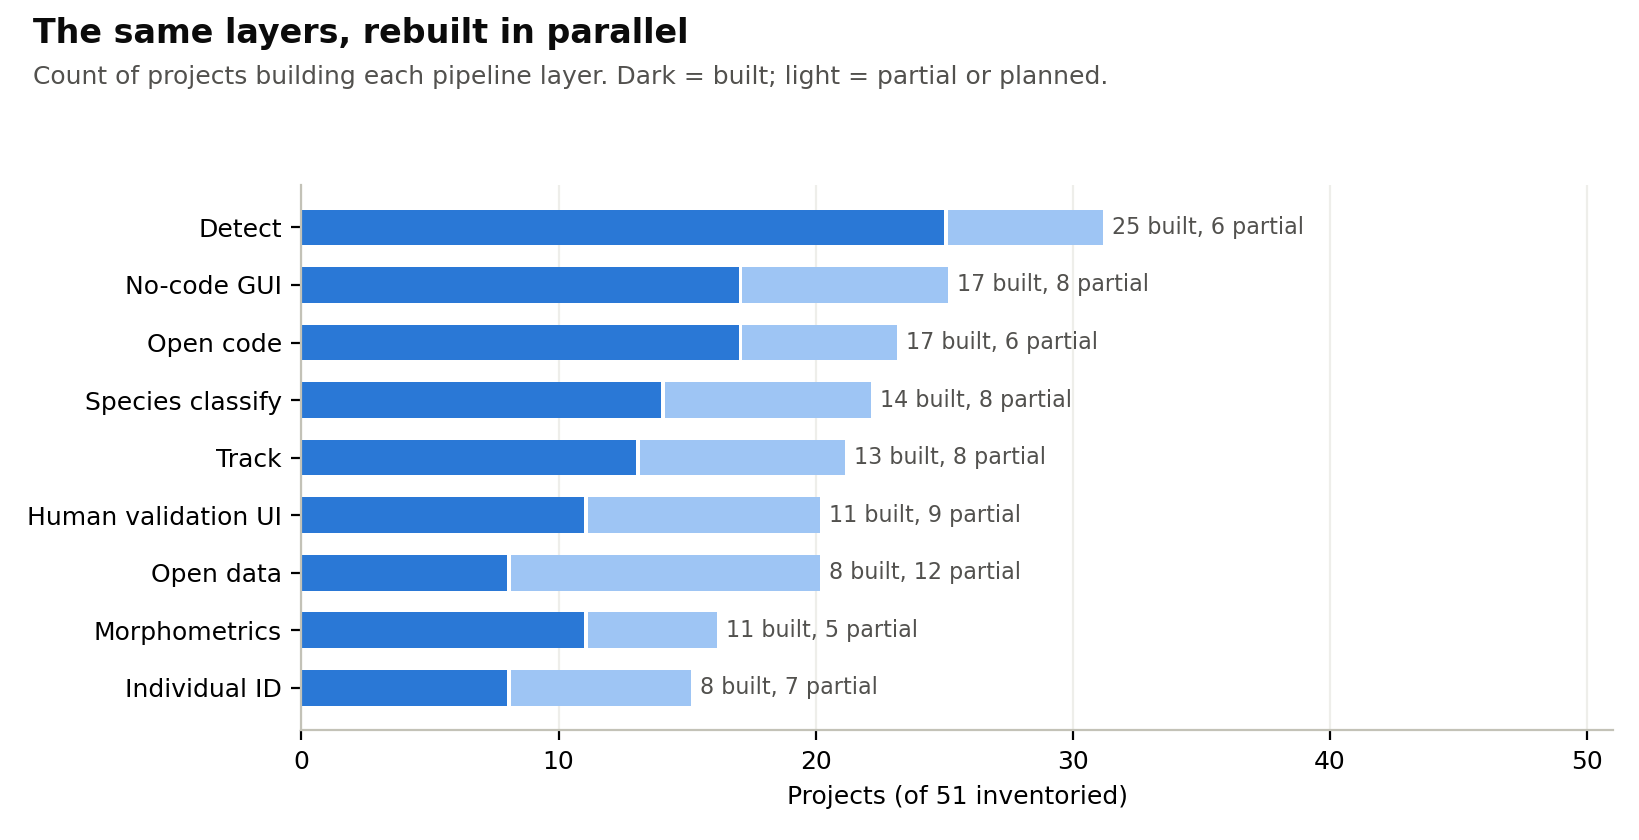
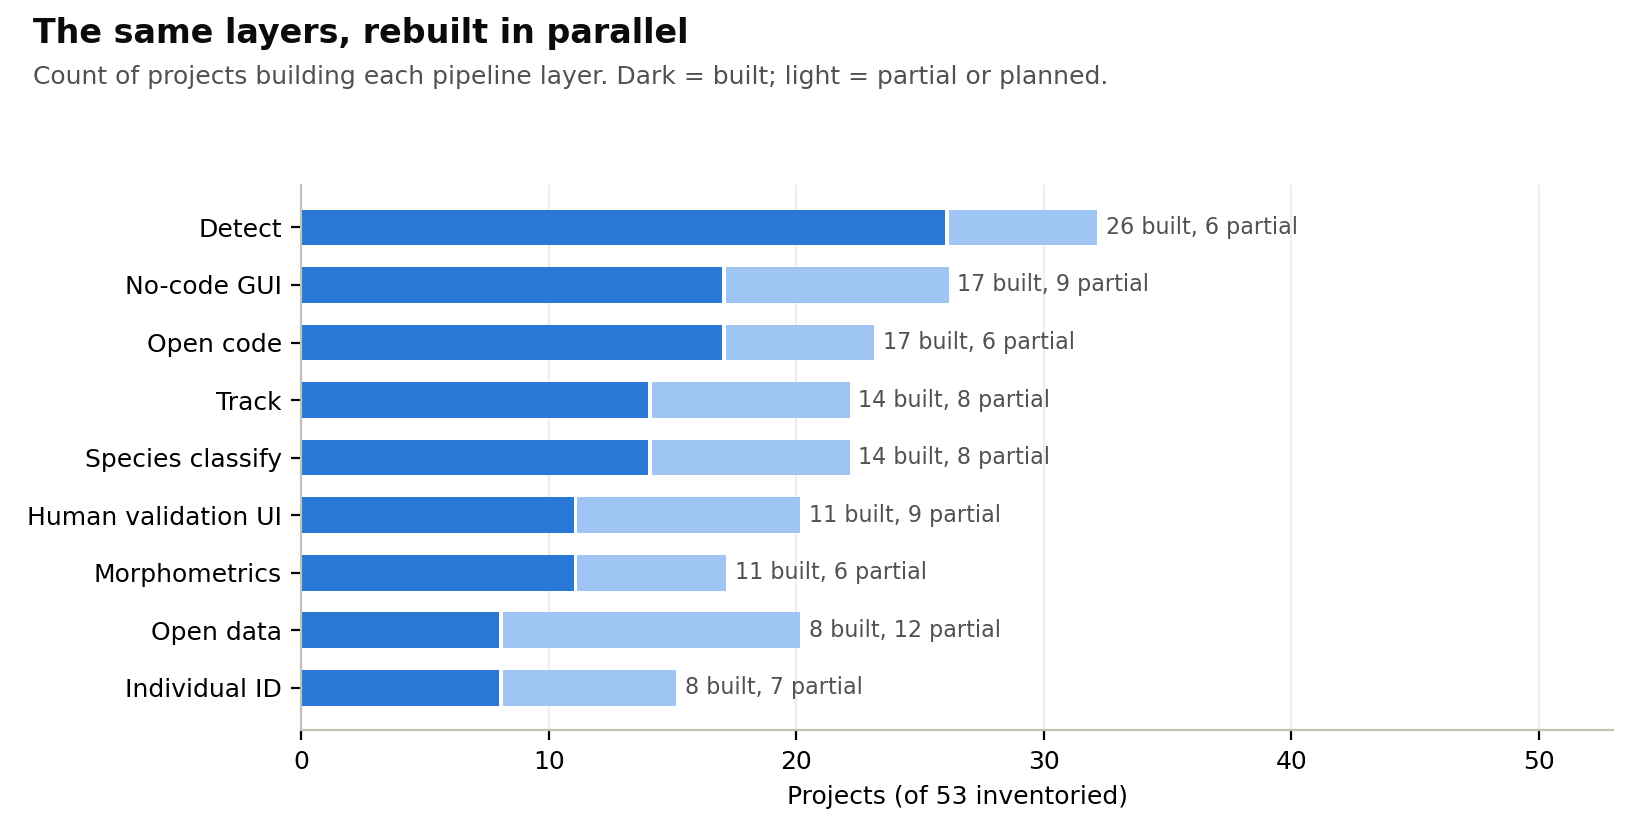
Poster pass: rows 52-53 (Okeanos hammerhead drone YOLO/TRex, Sotamar blue shark photogrammetry), row 18 and 51 updated

diff --git a/inventory.md b/inventory.md
@@ -1,6 +1,6 @@
-# Inventory: 51 shark and marine-megafauna computer-vision projects
+# Inventory: 53 shark and marine-megafauna computer-vision projects
 
-Compiled 1 and 6 October 2026. Columns kept to what is public; contacts are omitted (use the project pages). Rows 44 to 51 are from EEA 2026 abstracts only.
+Compiled 1 and 6 October 2026. Columns kept to what is public; contacts are omitted (use the project pages). Rows 44 to 53 are from EEA 2026 talk and poster abstracts only.
 
 | # | Project | Category | People and institution | Species and setting | Model family | Data openness | Licence | Status and last activity | Public evidence |
 |---|---|---|---|---|---|---|---|---|---|
@@ -21,7 +21,7 @@ Compiled 1 and 6 October 2026. Columns kept to what is public; contacts are omit
 | 15 | Photo-ID software comparison for eagle rays (SI2026 talk) | Photo-ID / re-identification | Isabel Evans, Nicole Esteban (Swansea); Kim Bassos-Hull (Mote); Jason Holmberg (Wild Me / Conservation X Labs) et al. | Aetobatus narinari, Mexican Caribbean; I3S Spot vs MantaMatcher Hotspotter vs MiewID | Evaluation study: I3S precision 91.9%, Hotspotter 67.6%, MiewID 59.5%; MantaMatcher 2x faster | Not stated | n/a | SI2026 talk | SI2026 abstract |
 | 16 | Monterey Bay White Shark Project CV (Stanford Hopkins) | Photo-ID / re-identification | Samantha Andrzejaczek, Alexandra DiGiacomo, Barbara Block (Stanford); Kurmann, Getoor (UCSC); Monterey Bay White Shark Project partners | White sharks; drone morphometrics; dorsal-fin re-ID over >1,000 individuals; camera traps at pinniped colonies | U-Net (ResNet-34) segmentation for body measurements (sharkbody_seg); ViT embedding retrieval for re-ID (Kurmann et al., ICCV 2025 CV4E workshop) | Drone morphometrics dataset on Stanford Data Repository (doi 10.25740/tr054mz8990); code on GitHub | Repo licence unverified | Active; PLOS ONE 2026; NEPSS drone workshop Mar 2026; SI2026 talk | github alexandradigiacomo/sharkbody_seg; linqs.org Kurmann PDF; SI2026 abstract |
 | 17 | Captive sand tiger shark AI tracking, Kuwait (SI2026 talk) | Aquarium, deep sea, beach safety, other | Amani Alzaidan (Kuwait University); The Scientific Center Kuwait; Nuwat (Bahrain) | Carcharias taurus in aquarium; 'Fathom Octopus' camera + 'SharkTrack' AI motion tracking; Mar to Jun 2025 | Unknown; whether 'SharkTrack' is Varini's tool is unverified | Not stated | n/a | SI2026 talk | SI2026 abstract; web pass found neither product |
-| 18 | Deep-sea BRUVs, Azores (SI2026 talk) | Aquarium, deep sea, beach safety, other | Diana Catarino, Laurence Fauconnet et al., Okeanos, University of the Azores | 150+ deep-sea BRUV videos, 500 h, 18 deep-water shark species, 3 rays, 2 chimaeras; 'testing AI tools' is stated next step | None yet | Not stated | n/a | Active; SI2026 talk | SI2026 abstract; saveourseas.com profile |
+| 18 | Deep-sea BRUVs, Azores (SI2026 talk) | Aquarium, deep sea, beach safety, other | Diana Catarino, Laurence Fauconnet et al., Okeanos, University of the Azores | 150+ deep-sea BRUV videos, 500 h, 18 deep-water shark species, 3 rays, 2 chimaeras; 'testing AI tools' is stated next step | None yet | Not stated | n/a | Active; SI2026 talk; EEA 2026 poster (Nieto Martín, Catarino, Robles, Guérillon, Giacomello, Gonçalves, Fauconnet) repeats the 150 videos / 500 h / 18 shark species figures and that AI tools for processing are being tested | SI2026 abstract; saveourseas.com profile |
 | 19 | Onboard-AI video surveillance of stingray provisioning, SE Australia (SI2026 talk) | Aquarium, deep sea, beach safety, other | Joni Pini-Fitzsimmons (Charles Darwin Univ.), Culum Brown (Macquarie), In2iti0n Pty Ltd, NSW DPIRD | Smooth stingrays and eagle rays at fish-cleaning stations; fishing activity and discards in real time | Edge AI video system (unspecified) + acoustic telemetry | Not stated | n/a | SI2026 talk | SI2026 abstract |
 | 20 | Social-media CV pipeline for shark records (SI2026 talk) | Photo-ID / re-identification | Jeremy Jenrette and Virginia Tech CS/Statistics co-authors | 5.4M posts, 700,000 shark observations, 17 species over 30 years | Computer-vision taxonomic labelling + metadata filtering + negative-binomial GLMs | See sharkPulse row | See sharkPulse row | SI2026 talk | SI2026 abstract |
 | 21 | Drone U-Net morphometrics (DiGiacomo, NEPSS 2026) | Drone / aerial | Alexandra DiGiacomo, Stanford Hopkins Marine Station | White sharks, aerial drone; length and girth to ~3% TL; habitat partitioning by size | U-Net semantic segmentation (ResNet-34 encoder); photogrammetric scaling | Open: Stanford Data Repository; github alexandradigiacomo/sharkbody_seg; NEPSS workshop repo | Repo licence unverified | Active; PLOS ONE 2026 | github API |
@@ -55,3 +55,5 @@ Compiled 1 and 6 October 2026. Columns kept to what is public; contacts are omit
 | 49 | Whale shark drone photogrammetry, Ningaloo (EEA 2026 talk) | Drone / aerial | Wim Zimmermann (Universidade do Algarve; UWA Oceans Institute), Laura-Marie Dehne, Mark Meekan | Whale sharks Rhincodon typus, Ningaloo Reef WA; 62 individuals, 70 encounters, Apr-May 2025; pre-caudal length, widths and a body area index (BAI) from drone video | Drone photogrammetry with manual measurement from frames (repeatability R = 0.955 for PCL); no automation stated | Not stated | Not stated | EEA 2026 talk Tue 6 Oct 2026 (Biological Studies, UK 15:50) | EEA 2026 abstract booklet (Zimmermann et al.) |
 | 50 | Photo/video-ID catalogue mined for lamprey parasitism, porbeagle (EEA 2026 speed talk) | Photo-ID / re-identification | Cassiopé Muller (DRDH), Lucas Zaccagnini (UBO), Anthony Acou (OFB, MNHN), Armelle Jung (DRDH) | Porbeagle Lamna nasus, Trégor, Brittany; the DRDH catalogue of 205 identified individuals; 34 sharks with 1-16 sea-lamprey Petromyzon marinus bite marks each (>25% of the catalogue); marks increase with body size; recent marks spring to early summer | Non-invasive photographic and video monitoring; the individual-ID catalogue re-read for parasite marks (manual); a possibly novel use of a photo-ID catalogue | Not stated; catalogue held by DRDH | Not stated | EEA 2026 speed talk Tue 6 Oct 2026 (Oceanic Realm, UK 10:40); first documented sea lamprey-porbeagle association | EEA 2026 abstract booklet (Muller et al.) |
 | 51 | Great Eggcase Hunt: Community Verification Platform (EEA 2026 talk) | Platform / dataset / annotation tool | Harriet Allen, Cat Gordon; Shark Trust, Plymouth | Chondrichthyan eggcases reported by the public from shorelines and in situ: >630,000 records, 88% verified to species, 35 countries, ~60 species, >4,300 in situ; contributors from beachcombers to organised surveys (Project SIARC) | Community Verification Platform (new) in which trained citizen scientists verify submitted eggcase photos to species, plus an identification training course; no automated image analysis stated. Proposes a data directory connecting community-science projects | Verified records fed the ISRA European Atlantic process; public access to the raw records not stated | Not stated | Active since 2003 (Shark Trust); EEA 2026 talk Tue 6 Oct 2026 (Citizen Science & LEK, UK 12:40) | EEA 2026 abstract booklet (Allen and Gordon) |
+| 52 | Smooth hammerhead nursery drone video with YOLO in TRex, Azores (EEA 2026 poster) | Drone / aerial | Linn Mansson, Okeanos - Institute of Marine Sciences, University of the Azores (Faial) | Juvenile smooth hammerheads Sphyrna zygaena at a surface nursery aggregation off Faial Island; UAV video, summer 2026; BACI design with four treatments (control, snorkelers, bait, both) to quantify energetic proxies and movement under shark tourism | Computer-vision YOLO models inside TRex (Walter and Couzin, row 10) for detection and tracking from drone video; poster lists tail-beat frequency, track tortuosity, distance to bait and to snorkelers, curvature, time in frame, and MaxN as the derived metrics | Not stated | Not stated | Data collected summer 2026; analysis under way; EEA 2026 poster | EEA 2026 poster abstract and poster OCR (Mansson) |
+| 53 | Blue shark body condition from laser photogrammetry, NW Mediterranean (EEA 2026 poster) | Aquarium, deep sea, beach safety, other | Alejandra Lopez Valentin, Sotamar Shark Research Association (Catalonia, Spain) | Wild blue sharks Prionace glauca, NW Mediterranean; 230 sightings 2022-2025, 131 with whole-animal images; 12 body measurements from lateral, ventral and dorsal photographs, scaled by dual-laser total length | Dual-laser photogrammetry (Ruiz-Olmo et al. 2025) and manual pixel measurement in ImageJ; biometric ratios as condition indices compared between healthy and injured or parasitised sharks; the poster closes with volumetric indices and 'their future automated estimation using AI' as the next step | Not stated | Not stated | EEA 2026 poster; automation planned | EEA 2026 poster abstract and poster OCR (Lopez Valentin) |

diff --git a/README.md b/README.md
@@ -6,7 +6,7 @@
 
 ## The problem
 
-AI-assisted coding has removed the barrier that used to stop a field biologist from building a detector. The result: 51 shark and marine-megafauna computer-vision projects inventoried in October 2026, of which 25 have built their own detector and 13 their own tracker, almost all on the same Ultralytics YOLO stack, each trained on one region and failing in the next. Only 8 publish data. 8 have automated individual identification; the long-running photo-ID catalogues presented at EEA 2026 are matched by hand. The largest video archives hold no models at all. Nobody connects the layers.
+AI-assisted coding has removed the barrier that used to stop a field biologist from building a detector. The result: 53 shark and marine-megafauna computer-vision projects inventoried in October 2026, of which 26 have built their own detector and 14 their own tracker, almost all on the same Ultralytics YOLO stack, each trained on one region and failing in the next. Only 8 publish data. 8 have automated individual identification; the long-running photo-ID catalogues presented at EEA 2026 are matched by hand. The largest video archives hold no models at all. Nobody connects the layers.
 
 ![Who builds which layer](figures/fig_overlap_matrix.png)
 
@@ -39,16 +39,16 @@ One open platform built as six modules with stable interfaces, each owned by a g
 
 ## The inventory
 
-51 projects, compiled 1 October 2026 from public sources (GitHub and Zenodo APIs, project pages, conference abstracts) and extended on 6 October 2026 from the EEA 2026 abstract booklet. By category:
+53 projects, compiled 1 October 2026 from public sources (GitHub and Zenodo APIs, project pages, conference abstracts) and extended on 6 October 2026 from the EEA 2026 abstract booklet. By category:
 
 - Photo-ID / re-identification: 15
 - Platform / dataset / annotation tool: 11
-- Drone / aerial: 8
+- Drone / aerial: 9
+- Aquarium, deep sea, beach safety, other: 7
 - Shark/ray BRUV detector: 6
-- Aquarium, deep sea, beach safety, other: 6
 - Fish BRUV / stereo-video platform: 5
 
-The full table is in [inventory.md](inventory.md) (also [inventory.csv](inventory.csv)). Rows 44 to 51 come from EEA 2026 abstracts and have not yet been checked against the talks or project pages. The layer scores behind the figures are the compiler's reading of the public evidence, not the projects' own claims.
+The full table is in [inventory.md](inventory.md) (also [inventory.csv](inventory.csv)). Rows 44 to 53 come from EEA 2026 talk and poster abstracts and have not yet been checked against the talks or project pages. The layer scores behind the figures are the compiler's reading of the public evidence, not the projects' own claims.
 
 **Is your project missing or wrong?** Open an issue or a pull request against `inventory.csv` in this repository (github.com/SimonDedman/ocean-ID), or email the contact below. Every row is editable.
 
